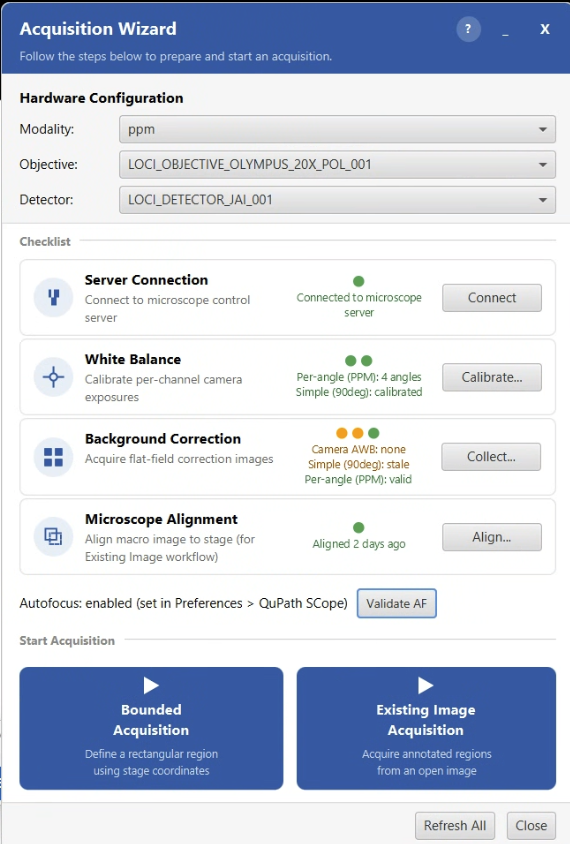
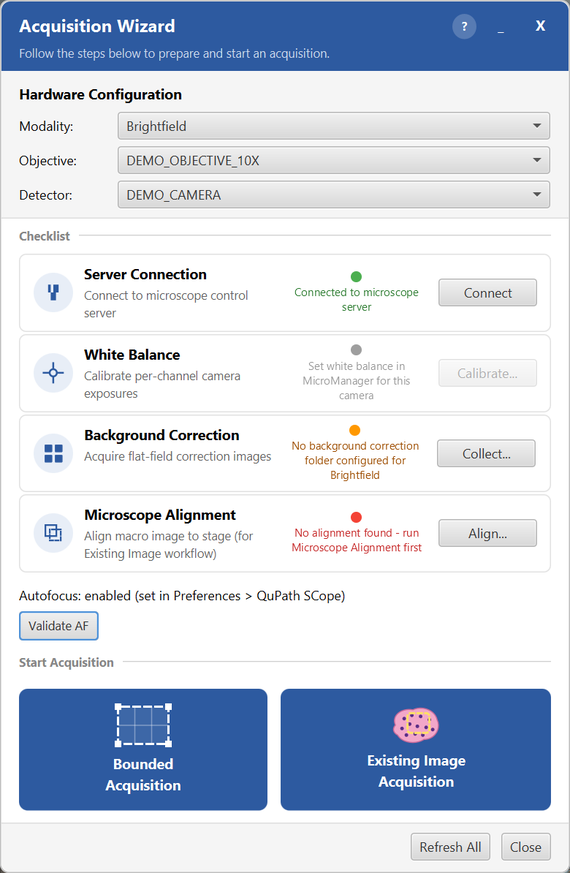
chore(release): version 0.11.0; re-capture the wizard and acquisition-dialog figures
- Version 0.11.0 in build.gradle.kts (extension and Maven publication). The
  CHANGELOG keeps its Unreleased heading until the tag.
- Four figures re-captured on the Windows QuPath against the demo
  microscope, Modena Light, title bars included: the Acquisition Wizard (icon
  buttons, Validate AF row), Bounded Acquisition (AUTOFOCUS expanded), the
  consolidated Existing Image dialog (collapsed AUTOFOCUS / MODALITY-SPECIFIC
  / Z-STACK headers), and the AUTOFOCUS + MODALITY + Z-STACK crop. Their acks
  are removed and their registry rows say what the demo shows and lacks
  (brightfield, no PPM angles or per-mode WB states); the Existing Image text
  now describes the brightfield figure and names what PPM adds.

Note: qupath-extension-ppm still pins qpsc 0.10.0 for compilation.

Claude-Session: https://claude.ai/code/session_01RGGpEUhYNeo6kpExXM8tGC

diff --git a/documentation/images/IMAGE_REGISTRY.md b/documentation/images/IMAGE_REGISTRY.md
@@ -10,21 +10,21 @@ This file tracks the relationship between documentation screenshots and the Java
 
 | Screenshot | Java Source File(s) | Last Verified | Status |
 |------------|-------------------|---------------|--------|
-| `Docs_AcquisitionWizard.png` | `ui/AcquisitionWizardDialog.java` | 2026-09-19 | OK -- re-captured (unannotated); shows the hardware-status dots and the per-mode white-balance / background lines |
+| `Docs_AcquisitionWizard.png` | `ui/AcquisitionWizardDialog.java` | 2026-10-17 | OK -- re-captured on the demo microscope (Windows, Modena Light): icon acquire buttons and the Validate AF row. Demo checklist states (no JAI, so no per-mode WB dots); the PPM multi-dot states are described in the text, not shown |
 | `Docs_AcquisitionWorkflowProgress.png` | `ui/DualProgressDialog.java` | 2026-05-27 | OK |
 | `Docs_AnnotationAcquisition.png` | `ui/AnnotationAcquisitionDialog.java` | 2026-08-22 | OK -- re-captured (unannotated). Mapped to the actual class selection dialog rather than the broad ExistingImageAcquisitionController; the multi-tile refinement radio lives in the consolidated dialog, not here, so this no longer false-flags |
 | `Docs_AutofocusConfigurationEditor.png` | `controller/AutofocusEditorWorkflow.java` | 2026-05-27 | OK |
 | `Docs_AutofocusParameterBenchmark.png` | `ui/AutofocusBenchmarkDialog.java` | -- | CHECK |
 | `Docs_BackgroundCollection.png` | `ui/BackgroundCollectionController.java` | 2026-05-27 | OK |
-| `Docs_BoundedAcquisition.png` | `ui/UnifiedAcquisitionController.java` | 2026-09-19 | OK -- re-captured (unannotated); includes the "Sample is already in focus" checkbox. NOTE: autofocus moved out of MODALITY-SPECIFIC OPTIONS into its own AUTOFOCUS pane on 2026-10-16; this figure predates that and needs re-capturing (MANUAL_TEST_QUEUE) |
+| `Docs_BoundedAcquisition.png` | `ui/UnifiedAcquisitionController.java` | 2026-10-17 | OK -- re-captured on the demo microscope (Windows, Modena Light) with the AUTOFOCUS pane expanded and MODALITY-SPECIFIC OPTIONS collapsed; brightfield, so no PPM angle content |
 | `Docs_BoundedAcquisition_TileGrid.png` | Lab-meeting slide deck (workflow figure; not a single UI class) | 2026-06-01 | OK |
 | `Docs_CameraControl.png` | `ui/CameraControlController.java` | 2026-05-27 | OK |
 | `Docs_CommunicationSettings.png` | `ui/ServerConnectionController.java` | 2026-05-27 | OK |
 | `Docs_CommunicationSettings_Alerts.png` | `ui/ServerConnectionController.java` | 2026-05-27 | OK |
 | `Docs_CrossInstrumentWorkflow.png` | Lab-meeting slide deck (workflow figure; not a single UI class) | 2026-06-01 | OK |
-| `Docs_ExistingImage_ConsolidatedDialog.png` | `ui/ExistingImageAcquisitionController.java` | 2026-08-22 | OK -- re-captured (unannotated). Modality / Z-stack panes are collapsed here; see `Docs_ExistingImage_Modality_Zstack.png` for those expanded |
+| `Docs_ExistingImage_ConsolidatedDialog.png` | `ui/ExistingImageAcquisitionController.java` | 2026-10-17 | OK -- re-captured on the demo microscope (Windows, Modena Light); the demo image's auto-registered alignment, collapsed AUTOFOCUS / MODALITY-SPECIFIC / Z-STACK headers; see `Docs_ExistingImage_Modality_Zstack.png` for those expanded |
 | `Docs_ExistingImage_FluorescenceProject.png` | Lab-meeting slide deck (QuPath project view; not a single UI class) | 2026-06-01 | OK |
-| `Docs_ExistingImage_Modality_Zstack.png` | `ui/ExistingImageAcquisitionController.java`, `modality/ppm/ui/PPMBoundingBoxUI.java` | 2026-09-19 | STALE -- re-captured 2026-09-19 with MODALITY-SPECIFIC + Z-STACK panes expanded (PPM angles, projection, loop order); the autofocus profile shown inside MODALITY-SPECIFIC moved to its own AUTOFOCUS pane on 2026-10-16, re-capture queued (MANUAL_TEST_QUEUE) |
+| `Docs_ExistingImage_Modality_Zstack.png` | `ui/ExistingImageAcquisitionController.java` | 2026-10-17 | OK -- re-captured on the demo microscope: AUTOFOCUS, MODALITY-SPECIFIC (brightfield exposure) and Z-STACK panes expanded, cropped from a JavaFX render of the dialog content. A PPM version would show the angle checkboxes instead |
 | `Docs_LiveViewer.png` | `ui/liveviewer/LiveViewerWindow.java` | 2026-08-22 | OK -- re-captured (unannotated; the numbered callouts from the 2026-05-27 figure are gone) |
 | `Docs_LiveViewer_Navigate.png` | `ui/liveviewer/StageControlPanel.java` (Navigate tab only) | 2026-09-19 | OK -- re-captured. The class also builds the Camera tab, so camera-only edits flag this figure spuriously; the Navigate tab has the joystick, Coarse/Fine Z bars, Move to Position and Calibrate Directions, and no camera controls |
 | `Docs_LiveViewer_SavedPoints.png` | `ui/liveviewer/StageControlPanel.java` (Saved Points tab only) | 2026-07-22 | CHECK -- shares a source class with the Navigate and Camera tabs, so it flags on camera edits that cannot affect it; verify before re-capturing |

diff --git a/documentation/tools/existing-image-acquisition.md b/documentation/tools/existing-image-acquisition.md
@@ -127,9 +127,9 @@ When using a brightfield modality, a live readout appears showing the resolved a
 
 When using a PPM modality, the hardware configuration pane includes angle selection checkboxes and a **live readout** showing the resolved acquisition values — the exposure (in milliseconds) that will be used for each selected angle. These values update live as you change the objective, detector, white-balance mode, or angle selections, so you can verify what the acquisition will actually use before starting.
 
-**AUTOFOCUS**, **MODALITY-SPECIFIC OPTIONS** and **Z-STACK OPTIONS** are collapsed by default. AUTOFOCUS holds the autofocus profile, which applies to every modality. MODALITY-SPECIFIC OPTIONS holds the modality's own controls (here the PPM polarization angles with their auto-derived per-angle exposures). The figure below predates the separate AUTOFOCUS section and still shows the profile selector inside MODALITY-SPECIFIC OPTIONS:
+**AUTOFOCUS**, **MODALITY-SPECIFIC OPTIONS** and **Z-STACK OPTIONS** are collapsed by default. AUTOFOCUS holds the autofocus profile, which applies to every modality. MODALITY-SPECIFIC OPTIONS holds the modality's own controls. The figure, taken on the demo microscope, shows brightfield, which has a single exposure and an override. With PPM the same pane shows the polarization angle checkboxes and their per-angle exposures, and Z-STACK OPTIONS adds a loop-order choice, since there are angles to order:
 
-![The MODALITY-SPECIFIC OPTIONS pane showing the autofocus profile selector and the PPM angle checkboxes with per-angle exposures, above the Z-STACK OPTIONS pane showing Z range, Z step, projection, stitched output and loop order](../images/Docs_ExistingImage_Modality_Zstack.png)
+![The AUTOFOCUS pane with the autofocus profile selector, the MODALITY-SPECIFIC OPTIONS pane with the brightfield exposure readout and override, and the Z-STACK OPTIONS pane with Z range, Z step, projection and stitched output](../images/Docs_ExistingImage_Modality_Zstack.png)
 
 ### Acquisition & Stitching Options
 
